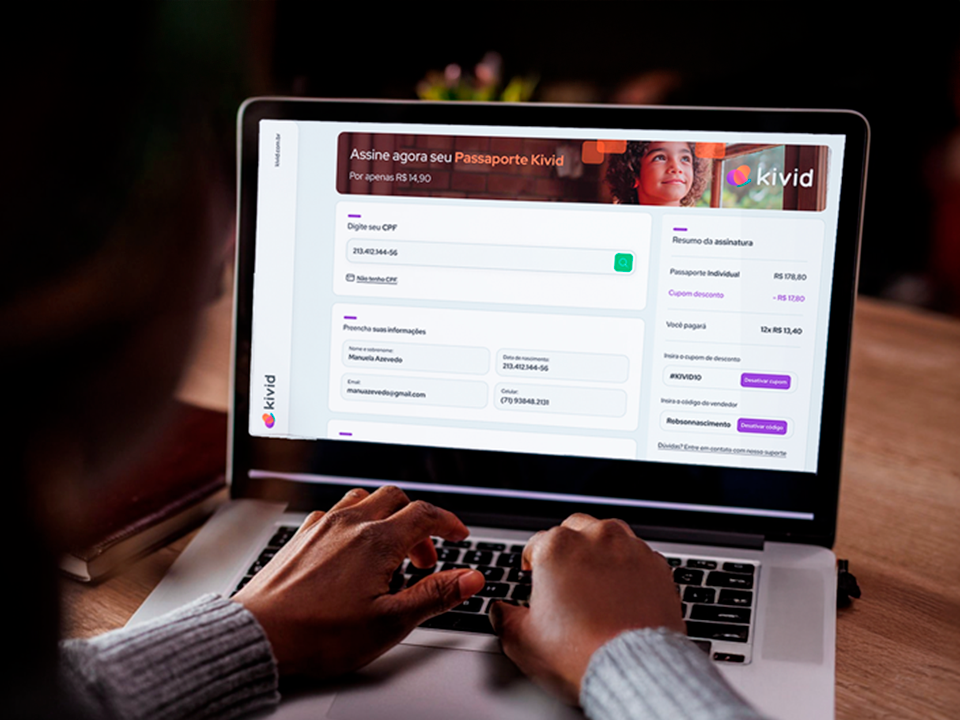
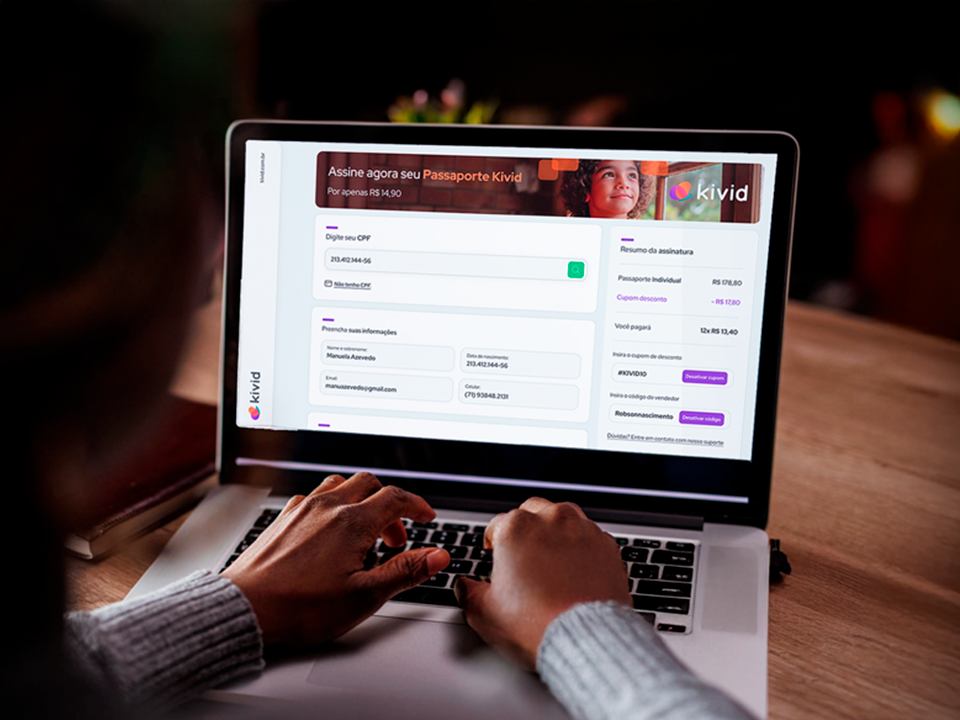
DM Sans bold em todos titulos + cards kinvo e bomconsorcio

diff --git a/style.css b/style.css
@@ -81,7 +81,7 @@ img { display:block; max-width:100%; }
 }
 .nav-sobre:hover { color:var(--c-text); }
 .nav-name {
-  font-family:var(--ff-display); font-size:.95rem; font-weight:700;
+  font-family:var(--ff-body); font-size:.95rem; font-weight:700;
   letter-spacing:-.01em; color:var(--c-text);
   cursor:pointer; text-align:center; transition:opacity .2s;
 }
@@ -123,7 +123,7 @@ img { display:block; max-width:100%; }
   background:none; border:none; color:var(--c-muted);
 }
 .mob-item {
-  font-family:var(--ff-display); font-size:clamp(2rem,8vw,3.5rem); font-weight:800;
+  font-family:var(--ff-body); font-size:clamp(2rem,8vw,3.5rem); font-weight:700;
   letter-spacing:-.04em; color:var(--c-text); cursor:pointer;
   opacity:0; transform:translateY(24px);
   transition:opacity .4s var(--ease), transform .4s var(--ease), color .2s;
@@ -241,7 +241,7 @@ img { display:block; max-width:100%; }
   margin-bottom:var(--gap-in);
 }
 .projects-title {
-  font-family:var(--ff-display); font-size:var(--t-h2);
+  font-family:var(--ff-body); font-size:var(--t-h2);
   font-weight:700; letter-spacing:-.03em; color:var(--c-text);
 }
 .projects-count {
@@ -297,7 +297,7 @@ img { display:block; max-width:100%; }
   color:var(--c-dim); margin-bottom:.6rem;
 }
 .pc-title {
-  font-family:var(--ff-display); font-size:clamp(1rem,1.8vw,1.4rem);
+  font-family:var(--ff-body); font-size:clamp(1rem,1.8vw,1.4rem);
   font-weight:700; letter-spacing:-.02em; color:var(--c-text); line-height:1.15;
 }
 .pc-arrow {
@@ -337,13 +337,13 @@ img { display:block; max-width:100%; }
 }
 .fb-overlay.open .fb-modal { transform:translateY(0); }
 .fb-close { position:absolute; top:1.25rem; right:1.25rem; font-size:1.1rem; color:var(--c-dim); cursor:pointer; background:none; border:none; }
-.fb-title { font-family:var(--ff-display); font-size:1.2rem; font-weight:700; letter-spacing:-.02em; color:var(--c-text); margin-bottom:.4rem; }
+.fb-title { font-family:var(--ff-body); font-size:1.2rem; font-weight:700; letter-spacing:-.02em; color:var(--c-text); margin-bottom:.4rem; }
 .fb-sub { font-size:.85rem; font-weight:300; color:var(--c-muted); line-height:1.7; margin-bottom:1.25rem; }
 .fb-textarea { width:100%; padding:.875rem 1rem; background:var(--c-bg); border:1px solid var(--c-line); font-family:var(--ff-body); font-size:.88rem; color:var(--c-text); resize:none; outline:none; line-height:1.6; transition:border-color .2s; }
 .fb-textarea:focus { border-color:var(--c-dim); }
 .fb-foot { display:flex; align-items:center; justify-content:space-between; margin-top:.875rem; }
 .fb-anon { font-family:var(--ff-mono); font-size:.6rem; color:var(--c-dim); }
-.fb-send { font-family:var(--ff-display); font-size:.78rem; font-weight:700; letter-spacing:.04em; padding:.55rem 1.4rem; background:var(--c-text); color:var(--c-bg); cursor:pointer; transition:opacity .2s; }
+.fb-send { font-family:var(--ff-body); font-size:.78rem; font-weight:700; letter-spacing:.04em; padding:.55rem 1.4rem; background:var(--c-text); color:var(--c-bg); cursor:pointer; transition:opacity .2s; }
 .fb-send:hover { opacity:.8; }
 .fb-thanks { display:none; text-align:center; padding:1rem; color:var(--c-muted); font-size:.9rem; }
 
@@ -381,7 +381,7 @@ img { display:block; max-width:100%; }
 .ch-ct { padding:var(--gap-in) 300px 0; }
 .ch-bd { padding:0 300px var(--gap-sec); }
 .ch-ey { font-family:var(--ff-mono); font-size:var(--t-mono); letter-spacing:.2em; text-transform:uppercase; color:var(--c-dim); margin-bottom:.875rem; }
-.ch-title { font-family:var(--ff-serif); font-size:clamp(2.5rem,5.5vw,4.5rem); font-weight:400; letter-spacing:-.01em; line-height:.95; color:var(--c-text); margin-bottom:1.5rem; }
+.ch-title { font-family:var(--ff-body); font-size:clamp(2.5rem,5.5vw,4.5rem); font-weight:700; letter-spacing:-.04em; line-height:.92; color:var(--c-text); margin-bottom:1.5rem; }
 .ch-title em { font-style:italic; color:var(--c-gold); font-weight:400; }
 .ch-meta { display:flex; gap:2.5rem; flex-wrap:wrap; margin-bottom:2.5rem; padding-bottom:2rem; border-bottom:1px solid var(--c-line); }
 .ch-meta-lbl { font-family:var(--ff-mono); font-size:.55rem; letter-spacing:.18em; text-transform:uppercase; color:var(--c-dim); margin-bottom:.25rem; }
@@ -401,13 +401,13 @@ img { display:block; max-width:100%; }
 .ch-kpi { background:var(--c-bg2); padding:1.1rem; display:flex; flex-direction:column; gap:.4rem; }
 .ch-kpi-icon { font-size:.95rem; }
 .ch-kpi-label { font-family:var(--ff-mono); font-size:.55rem; letter-spacing:.14em; text-transform:uppercase; color:var(--c-dim); }
-.ch-kpi-val { font-family:var(--ff-display); font-size:1.1rem; font-weight:700; color:var(--c-text); }
+.ch-kpi-val { font-family:var(--ff-body); font-size:1.1rem; font-weight:700; color:var(--c-text); }
 .ch-kpi-desc { font-size:.7rem; font-weight:300; color:var(--c-muted); line-height:1.4; }
 .ch-okr-block { margin:2rem 0; border:1px solid var(--c-line); overflow:hidden; }
 .ch-okr-head { background:var(--c-bg2); padding:.875rem 1.25rem; display:flex; align-items:baseline; gap:.75rem; border-bottom:1px solid var(--c-line); }
 .ch-okr-head-icon { font-size:.85rem; color:var(--c-dim); }
 .ch-okr-head-label { font-family:var(--ff-mono); font-size:.55rem; letter-spacing:.2em; text-transform:uppercase; color:var(--c-dim); }
-.ch-okr-head-obj { font-size:.88rem; font-weight:500; color:var(--c-text); flex:1; }
+.ch-okr-head-obj { font-family:var(--ff-body); font-size:.88rem; font-weight:500; color:var(--c-text); flex:1; }
 .ch-kr { display:grid; grid-template-columns:34px 1fr auto; align-items:start; gap:.875rem; padding:.8rem 1.25rem; border-bottom:1px solid var(--c-line); }
 .ch-kr:last-child { border-bottom:none; }
 .ch-kr-num { font-family:var(--ff-mono); font-size:.55rem; letter-spacing:.1em; color:var(--c-dim); padding-top:2px; }
@@ -424,19 +424,19 @@ img { display:block; max-width:100%; }
 .ch-img-slot-lbl { font-family:var(--ff-mono); font-size:.55rem; letter-spacing:.1em; text-transform:uppercase; color:var(--c-dim); }
 .res-grid { display:grid; grid-template-columns:1fr 1fr; gap:1px; background:var(--c-line); margin:2rem 0; }
 .res-item { background:var(--c-bg2); padding:1.25rem; }
-.res-n { font-family:var(--ff-display); font-size:2rem; font-weight:800; letter-spacing:-.03em; color:var(--c-text); line-height:1; }
+.res-n { font-family:var(--ff-body); font-size:2rem; font-weight:700; letter-spacing:-.03em; color:var(--c-text); line-height:1; }
 .res-n em { font-style:normal; color:var(--c-gold); }
 .res-l { font-size:.7rem; font-weight:300; color:var(--c-muted); margin-top:.3rem; line-height:1.4; }
 
 /* ── SOBRE PAGE ── */
 .sobre-page { padding:var(--gap-sec) var(--gap-nav); }
 .sobre-eyebrow { font-family:var(--ff-mono); font-size:var(--t-mono); letter-spacing:.22em; text-transform:uppercase; color:var(--c-dim); margin-bottom:1.5rem; }
-.sobre-headline { font-family:var(--ff-serif); font-size:clamp(2.5rem,5.5vw,5rem); font-weight:400; letter-spacing:-.02em; line-height:.95; color:var(--c-text); max-width:18ch; margin-bottom:var(--gap-in); }
+.sobre-headline { font-family:var(--ff-body); font-size:clamp(2.5rem,5.5vw,5rem); font-weight:700; letter-spacing:-.04em; line-height:.92; color:var(--c-text); max-width:18ch; margin-bottom:var(--gap-in); }
 .sobre-body-grid { display:grid; grid-template-columns:1fr 1fr; gap:var(--gap-in); padding-top:var(--gap-in); border-top:1px solid var(--c-line); margin-bottom:var(--gap-sec); align-items:start; grid-template-columns:320px 1fr; }
 .sobre-photo { background:var(--c-bg3); overflow:hidden; max-height:480px; }
 .sobre-photo img { width:100%; height:480px; object-fit:cover; object-position:top; display:block; }
 .sobre-text-col { display:flex; flex-direction:column; gap:1.5rem; }
-.sobre-quote { font-family:var(--ff-serif); font-size:clamp(1.1rem,1.8vw,1.5rem); font-weight:400; letter-spacing:0; line-height:1.35; color:var(--c-text); font-style:italic; }
+.sobre-quote { font-family:var(--ff-body); font-size:clamp(1.1rem,1.8vw,1.5rem); font-weight:700; letter-spacing:-.02em; line-height:1.3; color:var(--c-text); }
 .sobre-p { font-size:.9rem; font-weight:300; color:var(--c-muted); line-height:1.85; }
 .sobre-p strong { color:var(--c-text); font-weight:500; }
 .sobre-skills { display:grid; grid-template-columns:repeat(4,1fr); gap:1px; background:var(--c-line); margin:2rem 0; }
@@ -446,11 +446,11 @@ img { display:block; max-width:100%; }
 .sk-d { font-size:.7rem; font-weight:300; color:var(--c-muted); line-height:1.5; }
 .sobre-stats { display:grid; grid-template-columns:repeat(4,1fr); gap:1px; background:var(--c-line); margin-top:var(--gap-in); }
 .stat { background:var(--c-bg); padding:2rem 1.5rem; }
-.stat-n { font-family:var(--ff-display); font-size:2.5rem; font-weight:800; letter-spacing:-.04em; color:var(--c-text); line-height:1; }
+.stat-n { font-family:var(--ff-body); font-size:2.5rem; font-weight:700; letter-spacing:-.04em; color:var(--c-text); line-height:1; }
 .stat-n em { font-style:normal; color:var(--c-gold); font-size:1.5rem; }
 .stat-l { font-family:var(--ff-mono); font-size:.6rem; letter-spacing:.1em; text-transform:uppercase; color:var(--c-dim); margin-top:.4rem; }
 .traj-section { border-top:1px solid var(--c-line); padding-top:var(--gap-in); margin-top:var(--gap-sec); }
-.traj-title { font-family:var(--ff-serif); font-size:var(--t-h2); font-weight:400; letter-spacing:-.01em; color:var(--c-text); margin-bottom:var(--gap-in); }
+.traj-title { font-family:var(--ff-body); font-size:var(--t-h2); font-weight:700; letter-spacing:-.03em; color:var(--c-text); margin-bottom:var(--gap-in); }
 .ei { display:grid; grid-template-columns:120px 1fr; gap:1.5rem; padding:1.25rem 0; border-bottom:1px solid var(--c-line); }
 .ei:first-of-type { border-top:1px solid var(--c-line); }
 .ei-yr { font-family:var(--ff-mono); font-size:.7rem; font-weight:300; color:var(--c-dim); padding-top:2px; line-height:1.4; }

diff --git a/index.html b/index.html
@@ -184,25 +184,39 @@
         </div>
       </article>
 
-      <!-- Card 5 — Em breve -->
-      <article class="pc reveal d2" style="cursor:default;">
-        <div class="pc-img" style="background:#141414;display:flex;align-items:center;justify-content:center;">
-          <span style="font-family:'DM Mono',monospace;font-size:.65rem;letter-spacing:.2em;text-transform:uppercase;color:#333;">Em breve</span>
+      <!-- Card 5 — Kinvo -->
+      <article class="pc reveal d2"
+        onclick="openCase('kinvo','700k usuários. Um produto que precisava crescer.')"
+        tabindex="0" role="button" aria-label="Ver case Kinvo"
+        onkeydown="if(event.key==='Enter'||event.key===' '){event.preventDefault();openCase('kinvo','700k usuários. Um produto que precisava crescer.')}">
+        <div class="pc-img">
+          <img src="img/kinvo-hero.png" alt="Kinvo Product Design"
+            style="width:100%;height:100%;object-fit:cover;object-position:center;display:block;">
         </div>
         <div class="pc-body">
-          <div class="pc-meta">2025</div>
-          <h3 class="pc-title" style="color:#333;">Case em produção.</h3>
+          <div class="pc-meta">Kinvo · Fintech · BTG Pactual</div>
+          <h3 class="pc-title">700k usuários. Um produto que precisava crescer.</h3>
+          <div class="pc-arrow" aria-hidden="true">
+            <span class="pc-arrow-line"></span> Ver case
+          </div>
         </div>
       </article>
 
-      <!-- Card 6 — Em breve -->
-      <article class="pc reveal d3" style="cursor:default;">
-        <div class="pc-img" style="background:#141414;display:flex;align-items:center;justify-content:center;">
-          <span style="font-family:'DM Mono',monospace;font-size:.65rem;letter-spacing:.2em;text-transform:uppercase;color:#333;">Em breve</span>
+      <!-- Card 6 — BomConsórcio -->
+      <article class="pc reveal d3"
+        onclick="openCase('bomconsorcio','Um consórcio que ninguém entendia. Precisava mudar.')"
+        tabindex="0" role="button" aria-label="Ver case BomConsórcio"
+        onkeydown="if(event.key==='Enter'||event.key===' '){event.preventDefault();openCase('bomconsorcio','Um consórcio que ninguém entendia. Precisava mudar.')}">
+        <div class="pc-img">
+          <img src="img/bomconsórcio-hero.png" alt="BomConsórcio Product Design"
+            style="width:100%;height:100%;object-fit:cover;object-position:center;display:block;">
         </div>
         <div class="pc-body">
-          <div class="pc-meta">2025</div>
-          <h3 class="pc-title" style="color:#333;">Case em produção.</h3>
+          <div class="pc-meta">BomConsórcio · Fintech · 2024</div>
+          <h3 class="pc-title">Um consórcio que ninguém entendia. Precisava mudar.</h3>
+          <div class="pc-arrow" aria-hidden="true">
+            <span class="pc-arrow-line"></span> Ver case
+          </div>
         </div>
       </article>
 
